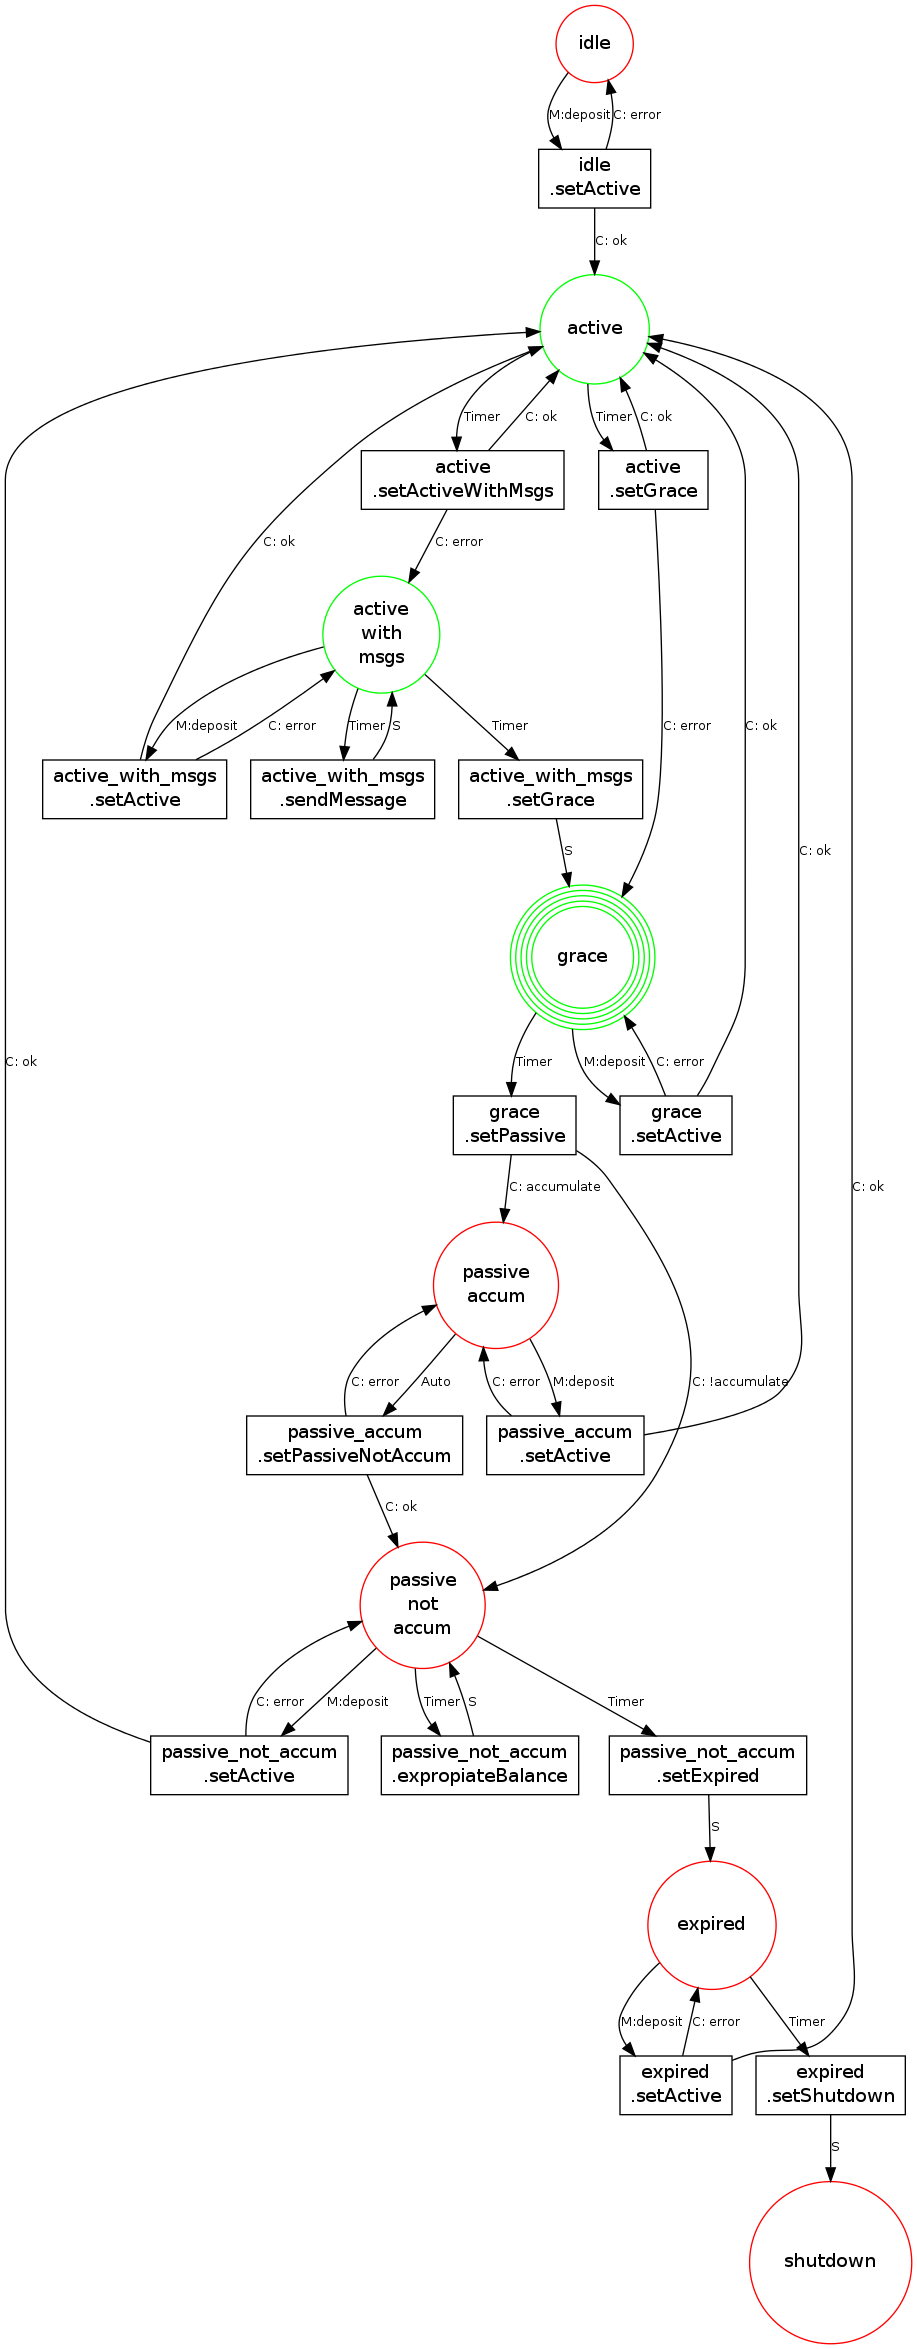
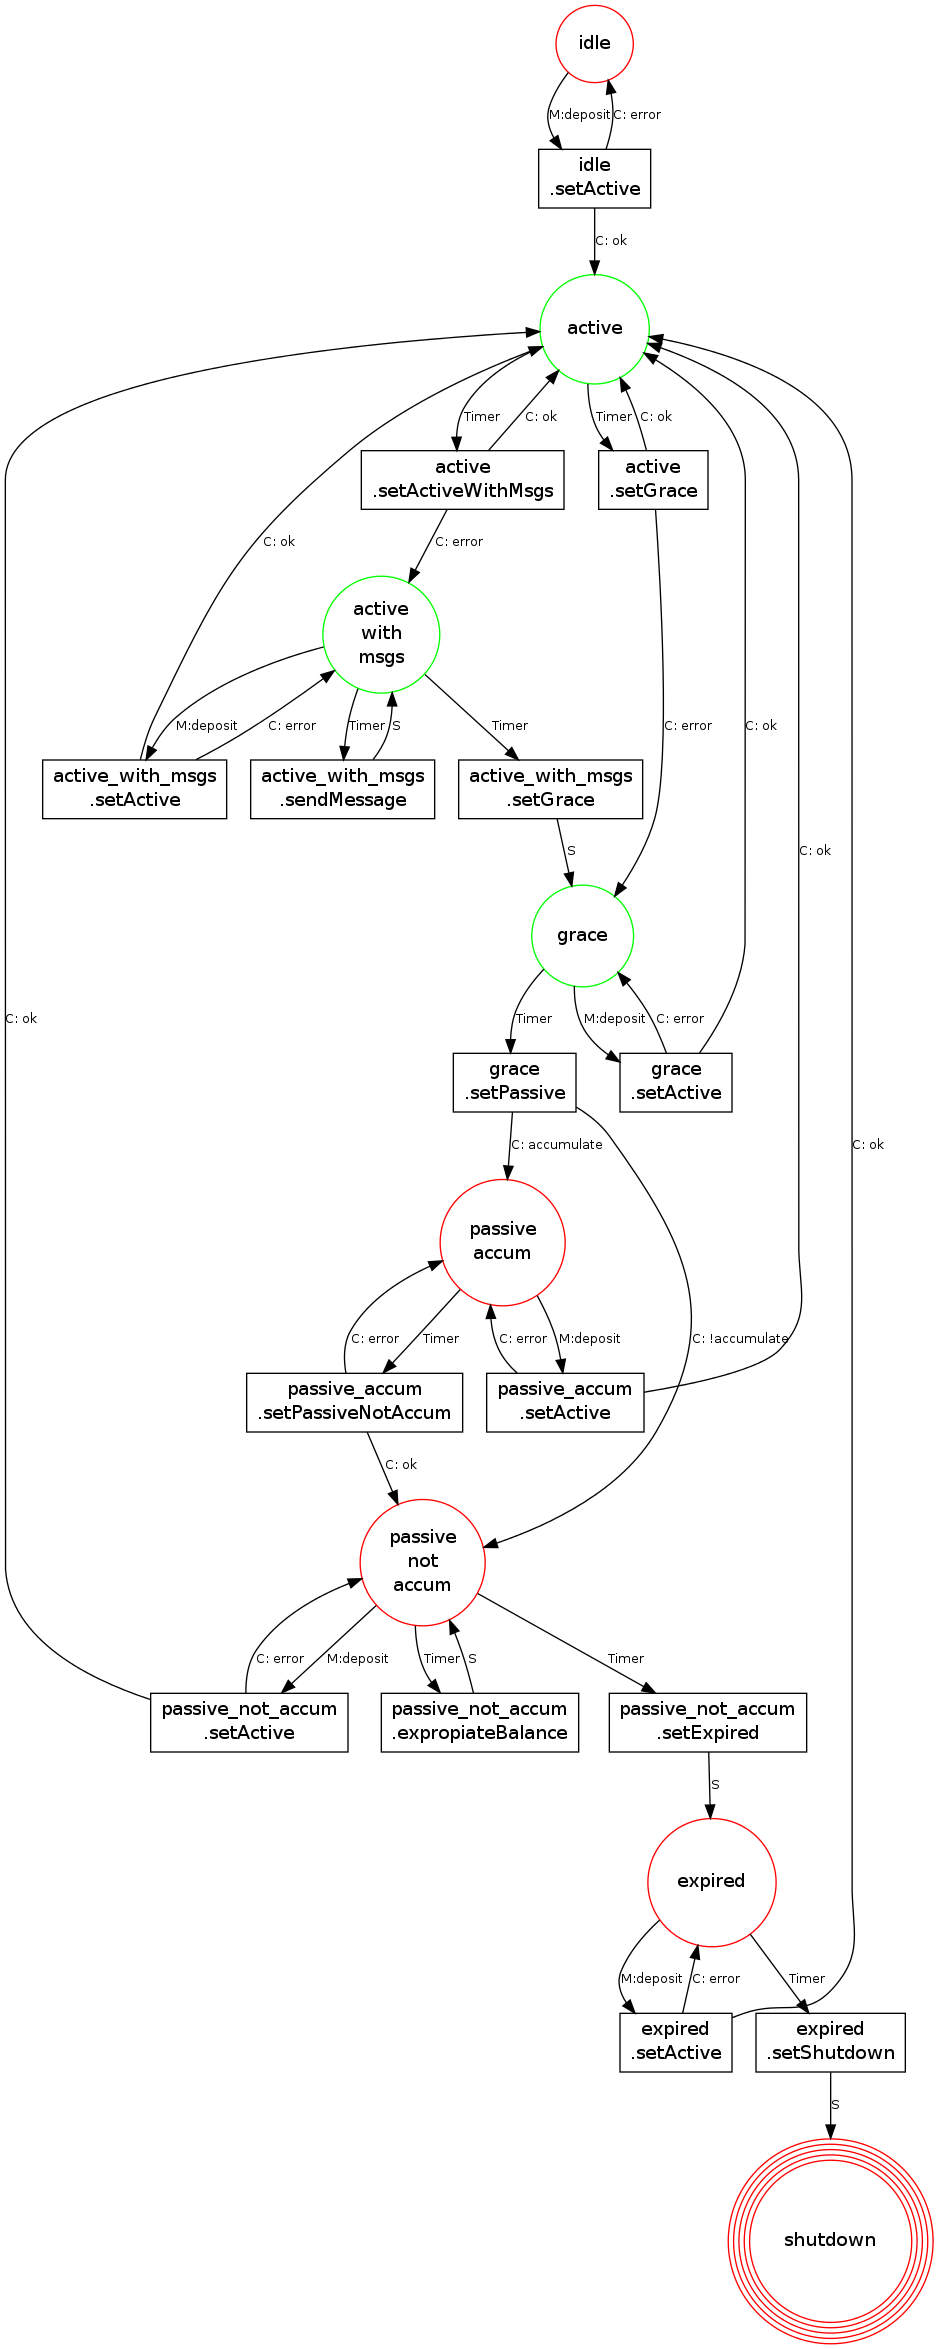
Arreglé pasaje automático de passive_accum a passive_not_accum. Agregué creación de gráficos desde browser.

diff --git a/classes/PrepaidLifecycleWorkflow.php b/classes/PrepaidLifecycleWorkflow.php
@@ -4,10 +4,11 @@
  * TODO: Depósito negativo!
  * TODO: Testear reactivaciones.
  * TODO: Testear active a grace sin mensajes.
- * TODO: Testear grace con acumulación de deuda.
  * TODO: Hacer envío de mensajes en grace.
  * TODO: Cobrar cargo de reconexión.
  * TODO: Separar estados públicos e internos.
+ * TODO: No renovar las fechas, usar pasaje a grace como base.
+ * TODO: De grace a active mueve la fecha 1 período desde ese momento.
  */
 
 class PrepaidLifecycleWorkflow extends Workflow
@@ -211,8 +212,6 @@ class PrepaidLifecycleWorkflow extends Workflow
         return $res;
     }
     
-    //---
-    
     public function getTaskDate($period)
     {
         debug(__CLASS__.".".__FUNCTION__."() Executing. Period: '{$period}'"); 
@@ -235,7 +234,7 @@ class PrepaidLifecycleWorkflow extends Workflow
             case 'grace.setPassive':
                 $res = strtotime("+".$this->_account->service_package->grace, time());
                 break;
-            case 'passive_accum.accumulatePeriodDebt':
+            case 'passive_accum.setPassiveNotAccum':
                 $res = strtotime("+".$this->_account->service_package->duration, time());
                 break;
             case 'passive_not_accum.expropiateBalance':
@@ -480,7 +479,8 @@ class PrepaidLifecycleWorkflow extends Workflow
                 ),
             ),
             'passive_accum.setPassiveNotAccum' => array(
-                'trigger' => 'AUTO',
+                'trigger' => 'TIME',
+                'time_limit' => 'passive_accum.setPassiveNotAccum',
                 'task' => 'setPassiveNotAccum',
                 'in_arcs' => array(
                     'passive_accum',

diff --git a/classes/GfxGenerator.php b/classes/GfxGenerator.php
@@ -7,6 +7,8 @@ class GfxGenerator
      * @param integer      $account_id
      * @param WorkflowCase $case
      * @param Workflow     $flow
+     *
+     * @return string
      */
     public function generate($account_id, $case, $flow)
     {
@@ -75,11 +77,13 @@ class GfxGenerator
 
         file_put_contents($datafile, $rawdata);
 
-        print_r($rawdata);
+        //debug($rawdata);
 
         exec("dot -Tpng {$datafile} > {$gfxfile}");
 
-        echo "\n";
-        echo "Done! Graph file: {$gfxfile}\n";
+        //debug("\n");
+        //debug("Done! Graph file: {$gfxfile}\n");
+
+        return $gfxfile;
     }
 }

diff --git a/graphic.php b/graphic.php
@@ -1,0 +1,17 @@
+<?php
+
+require_once './autoload.php';
+
+$account_id = $_GET['a'];
+
+$account = new Account($account_id);
+$case = new WorkflowCase('PrepaidLifecycleWorkflow', $account);
+$flow = $case->workflow;
+
+$generator = new GfxGenerator();
+$file = $generator->generate($account_id, $case, $flow);
+
+header("Content-type: image/png");
+header('Expires: 0');
+header('Content-Length: '.filesize($file));
+readfile($file);
